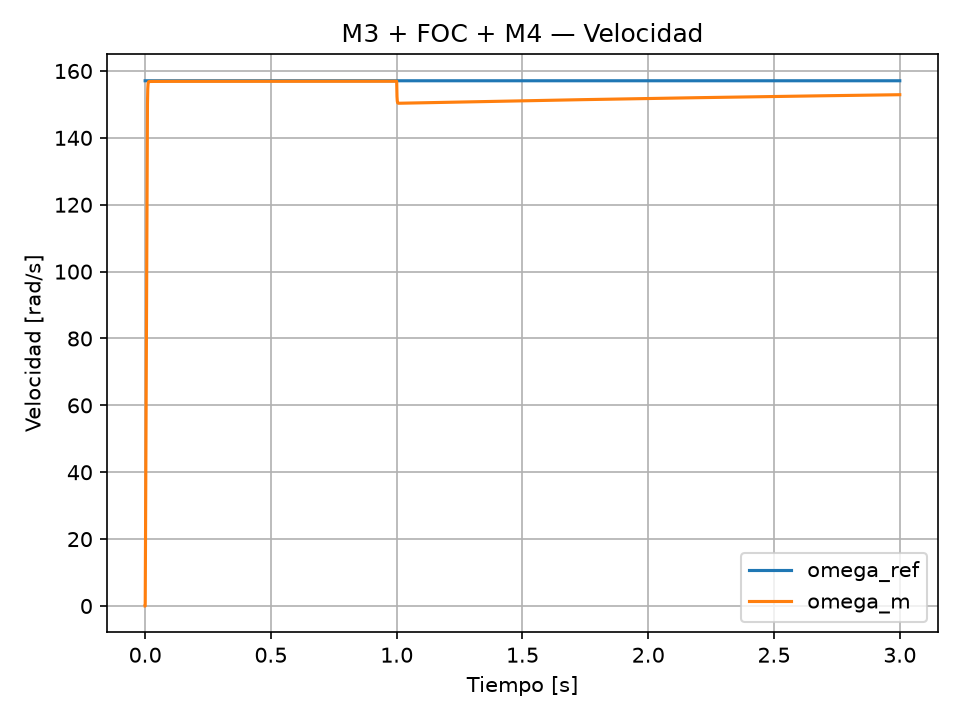
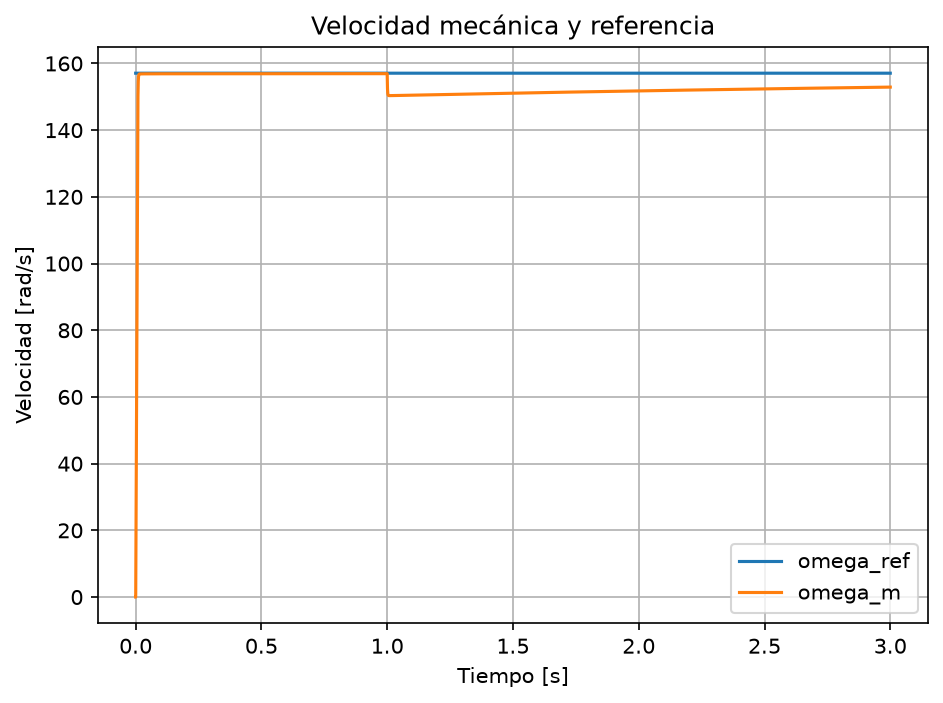
Automatizar generación reproducible de gráficas P4

Changed region(s): [[0.0, 0.0299, 0.9841, 0.9858]]

diff --git a/closed_loop_reconstruction/generar_graficas.py b/closed_loop_reconstruction/generar_graficas.py
@@ -1,0 +1,145 @@
+#!/usr/bin/env python3
+"""
+Generación reproducible de las 7 gráficas del experimento
+lazo_cerrado_m3_foc_m4.py.
+
+Entrada:
+    closed_loop_reconstruction/resultado_lazo_cerrado.csv
+
+Salida:
+    closed_loop_reconstruction/figuras/*.png
+"""
+
+from pathlib import Path
+import csv
+
+import matplotlib.pyplot as plt
+
+
+BASE = Path(__file__).resolve().parent
+CSV_FILE = BASE / "resultado_lazo_cerrado.csv"
+OUT_DIR = BASE / "figuras"
+
+
+def cargar_csv():
+    with CSV_FILE.open("r", newline="") as f:
+        reader = csv.DictReader(f)
+        columnas = reader.fieldnames
+
+        datos = {col: [] for col in columnas}
+
+        for row in reader:
+            for col in columnas:
+                datos[col].append(float(row[col]))
+
+    return datos
+
+
+def guardar(fig, nombre):
+    fig.tight_layout()
+    fig.savefig(OUT_DIR / nombre, dpi=150, bbox_inches="tight")
+    plt.close(fig)
+
+
+def main():
+    OUT_DIR.mkdir(parents=True, exist_ok=True)
+
+    datos = cargar_csv()
+
+    t = datos["t"]
+
+    # 01 — Velocidad
+    fig, ax = plt.subplots()
+    ax.plot(t, datos["omega_ref"], label="omega_ref")
+    ax.plot(t, datos["omega_m"], label="omega_m")
+    ax.set_xlabel("Tiempo [s]")
+    ax.set_ylabel("Velocidad [rad/s]")
+    ax.set_title("Velocidad mecánica y referencia")
+    ax.grid(True)
+    ax.legend()
+    guardar(fig, "01_velocidad.png")
+
+    # 02 — Error de velocidad
+    fig, ax = plt.subplots()
+    ax.plot(t, datos["omega_error"])
+    ax.set_xlabel("Tiempo [s]")
+    ax.set_ylabel("Error [rad/s]")
+    ax.set_title("Error de velocidad")
+    ax.grid(True)
+    guardar(fig, "02_error_velocidad.png")
+
+    # 03 — Corrientes d-q
+    fig, ax = plt.subplots()
+    ax.plot(t, datos["id"], label="id")
+    ax.plot(t, datos["iq"], label="iq")
+    ax.plot(t, datos["id_ref"], "--", label="id_ref")
+    ax.plot(t, datos["iq_ref"], "--", label="iq_ref")
+    ax.set_xlabel("Tiempo [s]")
+    ax.set_ylabel("Corriente [A]")
+    ax.set_title("Corrientes en marco d-q")
+    ax.grid(True)
+    ax.legend()
+    guardar(fig, "03_corrientes_dq.png")
+
+    # 04 — Torque
+    fig, ax = plt.subplots()
+    ax.plot(t, datos["Te"], label="Te")
+    ax.plot(t, datos["Tload"], label="Tload")
+    ax.set_xlabel("Tiempo [s]")
+    ax.set_ylabel("Torque [Nm]")
+    ax.set_title("Torque electromagnético y carga")
+    ax.grid(True)
+    ax.legend()
+    guardar(fig, "04_torque.png")
+
+    # 05 — Tensiones d-q
+    fig, ax = plt.subplots()
+    ax.plot(t, datos["Vd"], label="Vd")
+    ax.plot(t, datos["Vq"], label="Vq")
+    ax.set_xlabel("Tiempo [s]")
+    ax.set_ylabel("Tensión [V]")
+    ax.set_title("Tensiones en marco d-q")
+    ax.grid(True)
+    ax.legend()
+    guardar(fig, "05_tensiones_dq.png")
+
+    # 06 — Duty cycles
+    fig, ax = plt.subplots()
+    ax.plot(t, datos["duty_a"], label="duty_a")
+    ax.plot(t, datos["duty_b"], label="duty_b")
+    ax.plot(t, datos["duty_c"], label="duty_c")
+    ax.set_xlabel("Tiempo [s]")
+    ax.set_ylabel("Duty")
+    ax.set_title("Duty cycles")
+    ax.grid(True)
+    ax.legend()
+    guardar(fig, "06_duty.png")
+
+    # 07 — iq y límites
+    fig, ax = plt.subplots()
+    ax.plot(t, datos["iq"], label="iq")
+    ax.plot(t, datos["iq_ref"], "--", label="iq_ref")
+    ax.axhline(112.43, linestyle="--", label="iq_max")
+    ax.axhline(-112.43, linestyle="--", label="iq_min")
+    ax.set_xlabel("Tiempo [s]")
+    ax.set_ylabel("Corriente [A]")
+    ax.set_title("iq y límites de corriente")
+    ax.grid(True)
+    ax.legend()
+    guardar(fig, "07_iq_limites.png")
+
+    print("=" * 70)
+    print("GENERACIÓN DE GRÁFICAS — P4")
+    print("=" * 70)
+    print(f"Entrada : {CSV_FILE}")
+    print(f"Salida  : {OUT_DIR}")
+    print()
+    for i in range(1, 8):
+        archivo = OUT_DIR / f"{i:02d}_"
+        encontrados = list(OUT_DIR.glob(f"{i:02d}_*.png"))
+        if encontrados:
+            print(f"OK      : {encontrados[0].name}")
+
+
+if __name__ == "__main__":
+    main()
